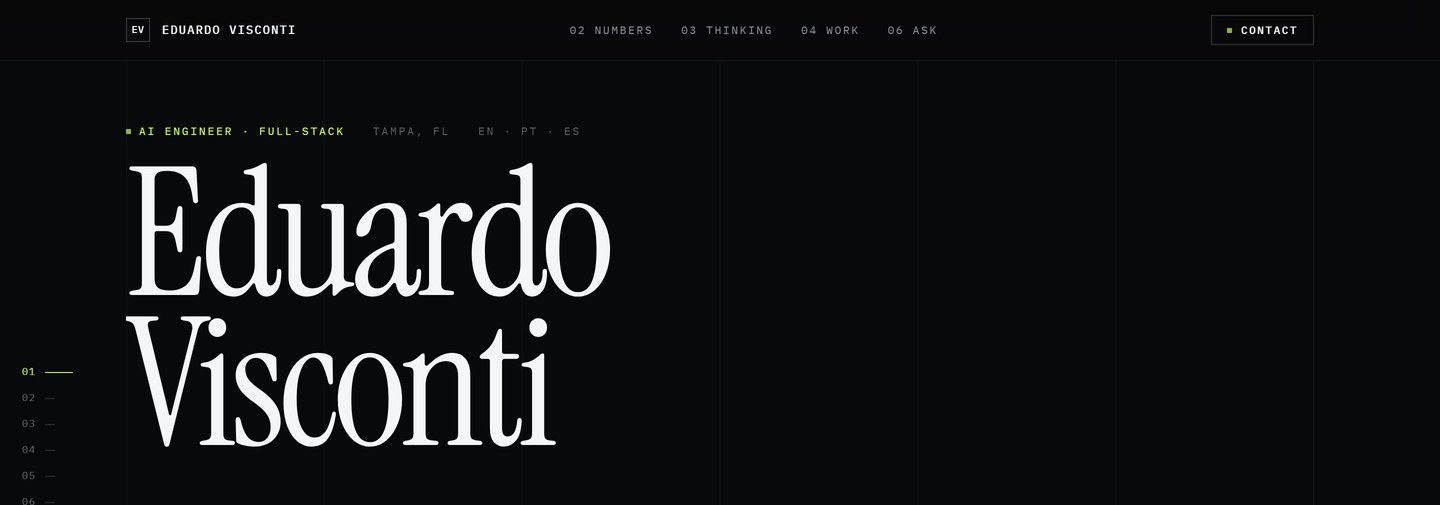
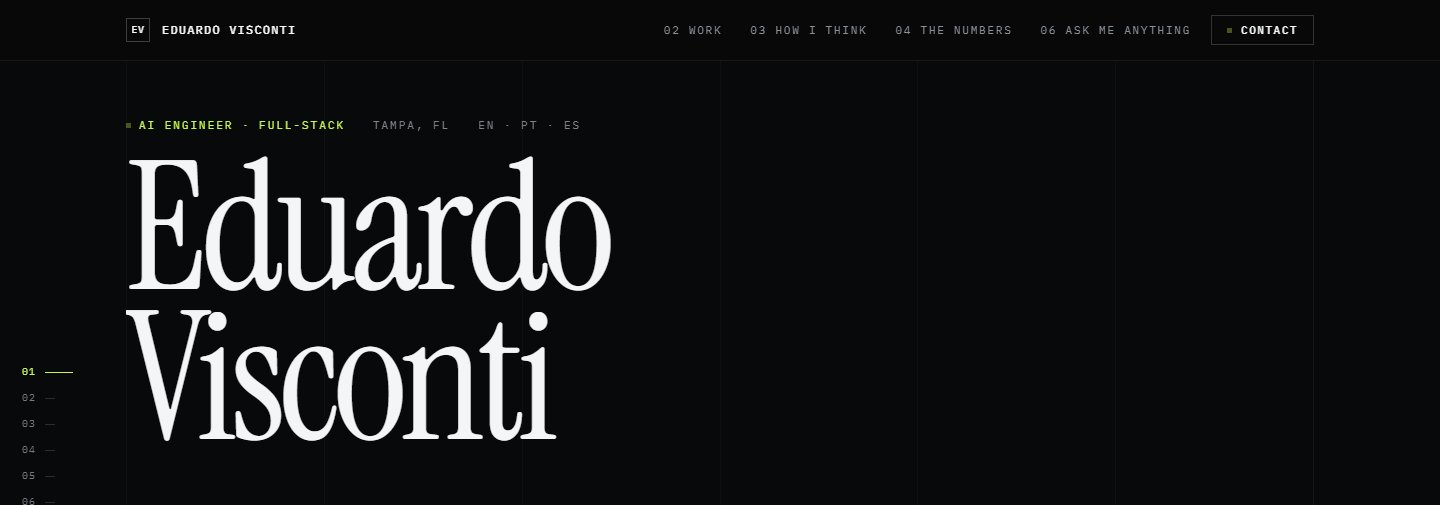
content: open beta has no tester count, and the README screenshot shows today's nav
The Forja beta on TestFlight is open to anyone with the link, so its tester count moves on its own and "has 10 testers" goes stale. The card and the assistant now say only that it is open, matching LinkedIn.

public/resume.pdf is the current résumé, which calls it an open TestFlight beta. docs/site.jpg is retaken from production: the old one showed the section order before Work moved to 02.

diff --git a/lib/assistant-context.ts b/lib/assistant-context.ts
@@ -16,7 +16,7 @@ FACTS:
 - Collaboration: he owns the deed service, and ships the AI Hub frontend through review by other engineers, reviewing their pull requests in return.
 - Deed retrieval platform: built from scratch, and owned, at United Financial Resources. Built to replace a deed lookup that takes someone 10 to 30 minutes by hand. Given an owner and a county, it finds the county's records portal, logs in, runs the search, checks the PDF and returns the deed to AI Hub or the company CRM. Integrations for 70+ records-portal platforms, 840+ counties set up for automated search, 60 architecture decision records, and 7,500+ tests run inside the shipped image on every pull request. When a portal breaks, an LLM agent capped by iterations diagnoses it and proposes a fix, and a person approves any change to a county's validation or retrieval settings. The agent has not run in production yet; the fixes from his coverage sweeps were his own. The agent runs on a self-hosted model and refuses any model endpoint outside the company network. The PDF check uses a vision model that can fall back to a paid external model, so never say documents or data stay in-house. Source is private.
 - AI Hub: the company's internal multi-agent chat platform, used by about 60 employees. He leads the frontend (Next.js 16, React 19, TypeScript): he redesigned the whole interface on his own, built projects and pinned and archived chats, fixed a streaming race that lost or merged up to 75% of agent replies, and wrote the MCP server that lets its agents search for deeds. Company platform, so there is no link and no screenshots.
-- Forja: his own product, built solo since March 2026. A training app for people who mix lifting, HYROX, functional work and running: workouts, cardio, programs, habits, body weight and progress in one app, with the whole workout on one screen like a spreadsheet. Offline-first: the phone holds the data and syncs to Supabase in the background. React Native and Expo. 5,000+ tests. The iOS beta on TestFlight is open to anyone with the link and has 10 testers, and the web app is live at app.forjahybrid.com. A full redesign is in progress. Strava upload is built but waiting on Strava's API approval, so it is not live. There is a written case study on GitHub with no product code.
+- Forja: his own product, built solo since March 2026. A training app for people who mix lifting, HYROX, functional work and running: workouts, cardio, programs, habits, body weight and progress in one app, with the whole workout on one screen like a spreadsheet. Offline-first: the phone holds the data and syncs to Supabase in the background. React Native and Expo. 5,000+ tests. The iOS beta on TestFlight is open to anyone with the link, and the web app is live at app.forjahybrid.com. A full redesign is in progress. Strava upload is built but waiting on Strava's API approval, so it is not live. There is a written case study on GitHub with no product code.
 - ConsciencIA: client work, live. A private journaling app where a psychology practice's patients get AI feedback on what they write. Entries are encrypted at rest, consent is given item by item and asked again only when its text changes, and the AI key never reaches the browser. It lives in its own repository, apart from the practice site, so access to the site never grants access to code that handles health data. Astro with a PHP and MySQL backend. Never state a number of users.
 - Sueli Repulho: client work. The website and course sales pages for a clinical psychologist with 42 years of practice. Static Astro for a shared host with no Node, a PHP lead form with a honeypot, an origin check, dedup and two rate limits, Google's tags loaded only after consent, and end-to-end tests on desktop and mobile. The new site is not on her domain yet, so there is no link.
 - Stack: Python, FastAPI, asyncio, pytest, Playwright, Vitest, PostgreSQL with row-level security, TypeScript, React, React Native, Expo, Next.js, Docker, GitHub Actions, LLM agents with tool calling, MCP, LiteLLM with self-hosted models.

diff --git a/lib/content.ts b/lib/content.ts
@@ -122,7 +122,7 @@ export const WORK: WorkItem[] = [
       'progress live in one app, and the whole workout fits on one screen like a ' +
       'spreadsheet, edited with a tap. I tested the popular apps and none of them covered ' +
       'all of it, so I built Forja from what each one did best. The iOS beta on TestFlight ' +
-      'is open to anyone with the link and has 10 testers, and the web app is live. A full ' +
+      'is open to anyone with the link, and the web app is live. A full ' +
       'redesign is in progress.',
     meta: ['5,000+ TESTS', 'OFFLINE-FIRST', 'REACT NATIVE', 'SUPABASE'],
     links: [
